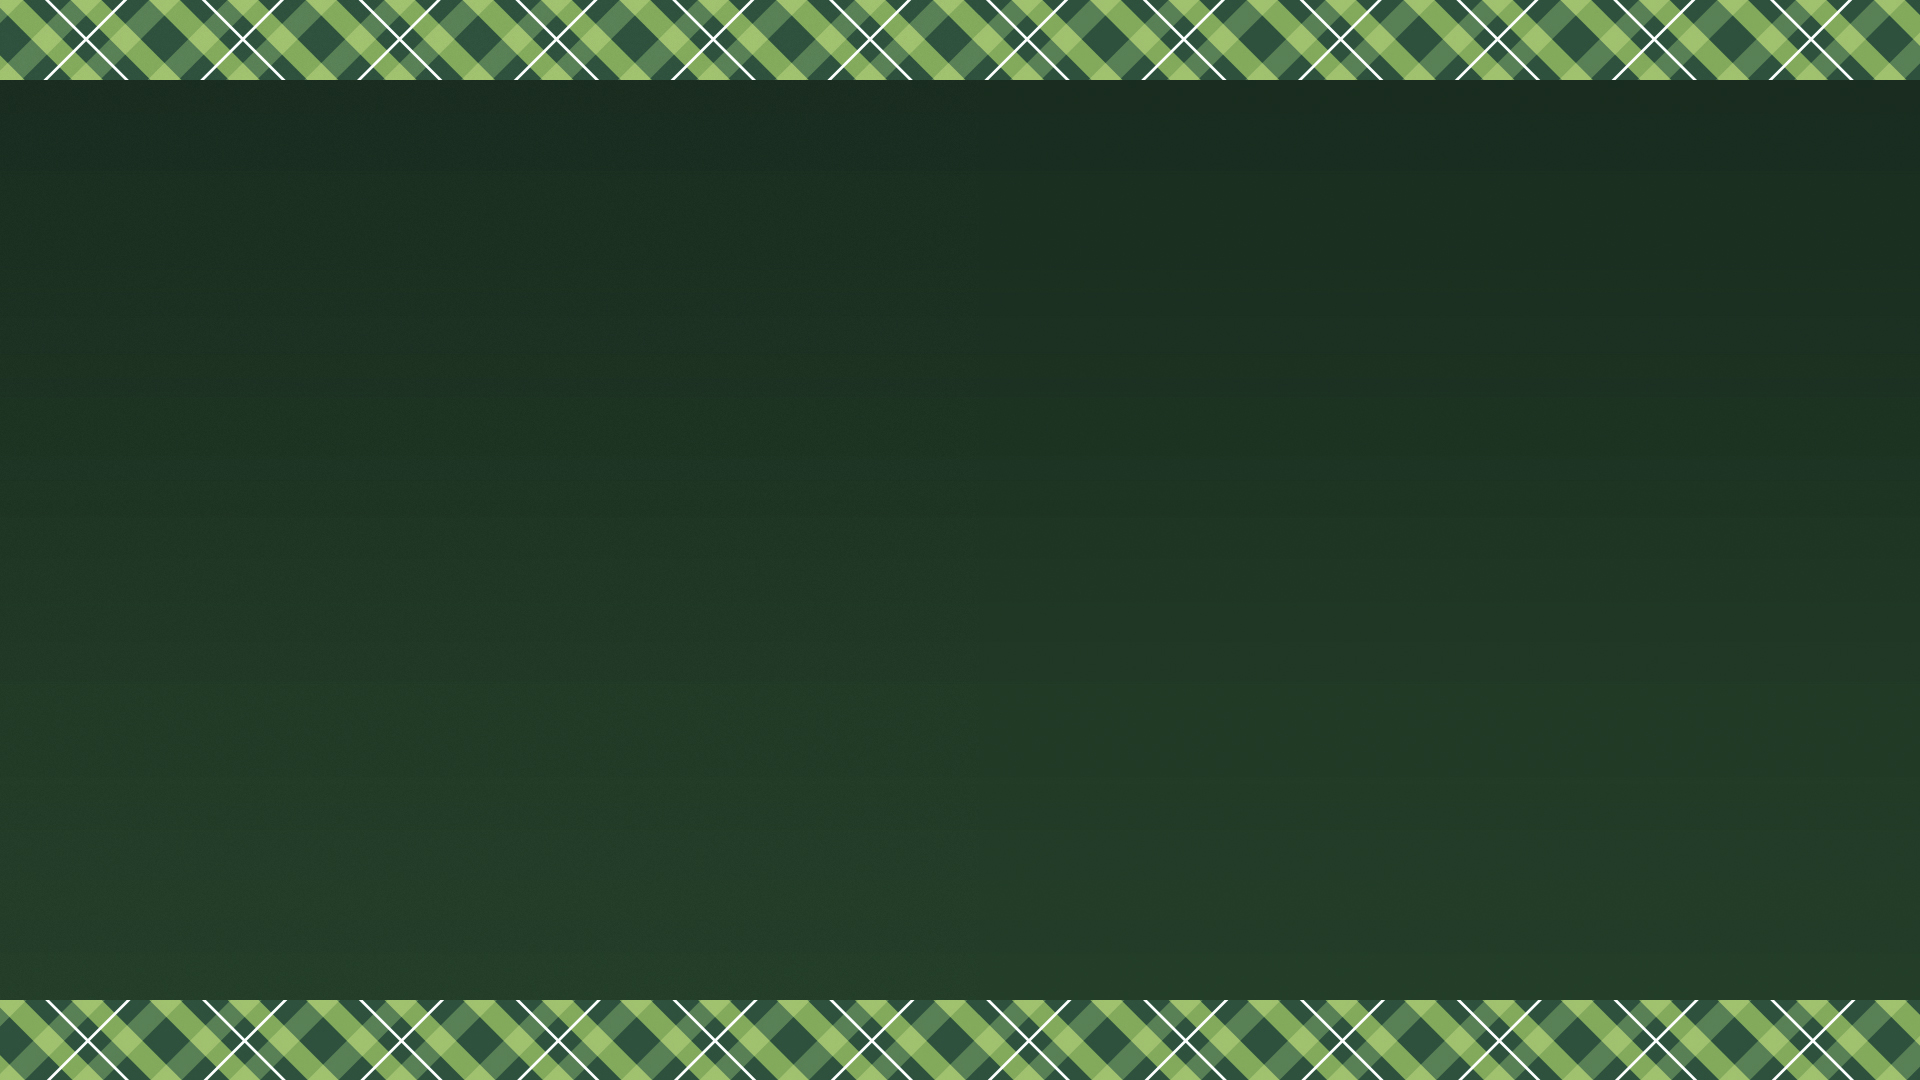
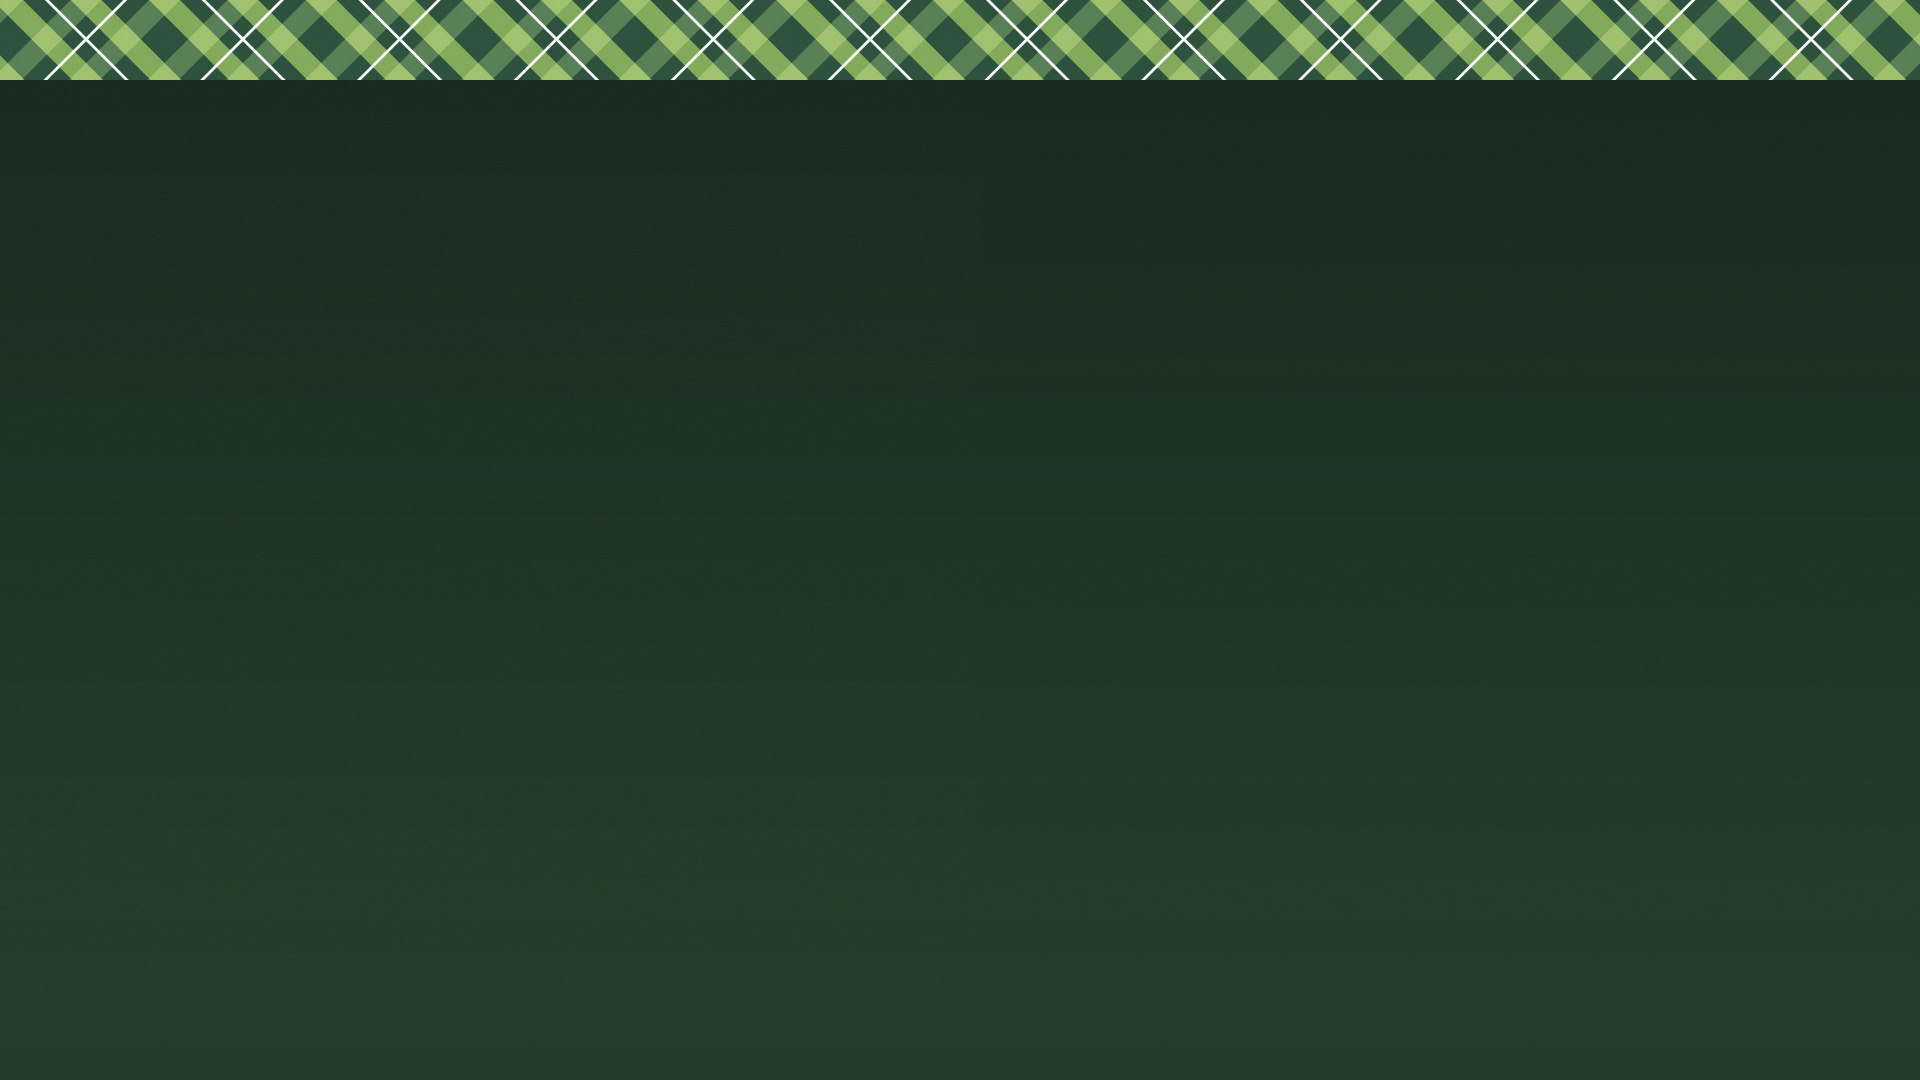
pildid suuremks, emotikonid paika, taust uus

Changed region(s): [[0.0, 0.9167, 1.0, 1.0]]

diff --git a/index.html b/index.html
@@ -44,6 +44,7 @@
             height: 1080px;
 			background-image: url(taust.jpg);
 			background-repeat: no-repeat;
+			background-size: cover;
 
 		}
         header {
@@ -77,16 +78,16 @@
 			display: inline-block;
 			float:left;
 			/*margin-right: 200px;*/
-			margin-top: 200px;
+			margin-top: 50px;
 
 		}
 
 		.pildid{
-			margin-left: 380px;
+			margin-left: 120px;
 		}
 
 		.versus{
-			margin-top: 180px;
+			margin-top: 250px;
 			margin-left: 50px;
 			margin-right: 50px;
 
@@ -153,17 +154,17 @@
 	<section class="pildid">
 		<div class="road">
 			<!--<h2>Lihapallid porgandi ja <br> pastinaagiga</h2>-->
-			<img src="lihapallid_porgandiga.png" alt="lihapallid_porgandiga" height="500px" width="500px">
+			<img src="lihapallid_porgandiga.png" alt="lihapallid_porgandiga" height="700px" width="700px">
 		</div>
 
 		<div class="road">
-			<img class="versus" src="versus.png" alt="versus" padding-top:"400px" height="150px" width="150px">
+			<img class="versus" src="versus.png" alt="versus" padding-top:"400px" height="200px" width="200px">
 		</div>
 
 
 		<div class="road">
 			<!--<h2>Lihapallid brokoli ja <br> hernestega</h2>-->
-			<img src="lihapallid_brokoliga.png" alt="lihapallid_brokoliga" height="500px" width="500px" >
+			<img src="lihapallid_brokoliga.png" alt="lihapallid_brokoliga" height="700px" width="700px" >
 		</div>
 
 
@@ -171,8 +172,8 @@
 
 
     <!-- REACTIONS -->
-    <div class="tc wf likes "style="margin-top:10px; margin-left: 340px; margin-right: 180px; padding-right: 0px;" ><img class="emoji" src="emojis/like.png"><span class="counter"></span></div>
-    <div class="tc wf happy" style="margin-top:10px; margin-left: 0px;"><img class="emoji" src="emojis/love.png"><span class="counter"></span></div>
+    <div class="tc wf likes "style="margin-top:5px; margin-left: 180px; margin-right: 390px; padding-right: 0px;" ><img class="emoji" src="emojis/like.png"><span class="counter"></span></div>
+    <div class="tc wf happy" style="margin-top:5px; margin-left: 0px;"><img class="emoji" src="emojis/love.png"><span class="counter"></span></div>
 
 <script src="jquery.min.js"></script>
     <script src="lodash.min.js"></script>
